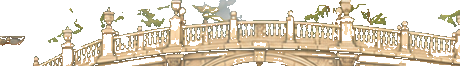
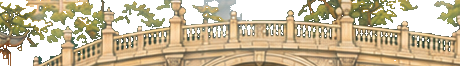
fix(scene): put the walker's feet on the deck course, not the rail crown
Walking the bridge in all three times of day showed her boots poking out below
the balustrade. The footline had the crown at y=400 — that is the TOP of the
railing, so a 96px figure standing there hung 30px below the overlay's bottom
edge (434).

- Deck footline now sits on the stone course at y=431, just inside the parapet
  so the boots are fully occluded. Verified by waiting for heroY to settle at
  431 rather than screenshotting mid-walk (an earlier capture caught her still
  travelling and I misread the steps at x=1700 as a rendering bug).
- Rebuilt the dusk/night overlays with the day cut's solid deck footprint as a
  shape template, so all three times occlude the same area (their own pixel
  masks had 44%% holes in the bottom band vs 24%% by day).
- Added a window.__lijiangEngine QA probe exposing hero y, visibility and world
  child order, so layer-order questions can be answered with data instead of
  squinting at 4x crops.
- tests/walkway.test.mjs now asserts feet rest on the deck COURSE near the
  parapet's bottom edge; the previous assertion accepted the crown and so
  passed while the bug was live.

Verification: typecheck, 59 unit tests, 44/44 browser checks, build clean.

diff --git a/src/content/walkway.ts b/src/content/walkway.ts
@@ -53,11 +53,13 @@ export const WALKWAY: readonly FootlinePoint[] = [
   // course the balustrade stands on) runs y~425 at the left base, crowns at
   // y~400 near x=1340 and returns to y~425 by x=1450. The arch springing and
   // the piers below are NOT ground — walking there put the figure in the river.
-  { x: 1240, y: 427, review: 'pending', foreground: true },
-  { x: 1290, y: 409, review: 'pending', foreground: true },
-  { x: 1340, y: 400, review: 'pending', foreground: true },
-  { x: 1390, y: 409, review: 'pending', foreground: true },
-  { x: 1450, y: 427, review: 'pending', foreground: true },
+  // Feet rest on the deck COURSE (~y 431), not on the rail crown (~400): standing
+  // on the crown left the boots poking out below the balustrade.
+  { x: 1240, y: 431, review: 'pending', foreground: true },
+  { x: 1290, y: 431, review: 'pending', foreground: true },
+  { x: 1340, y: 431, review: 'pending', foreground: true },
+  { x: 1390, y: 431, review: 'pending', foreground: true },
+  { x: 1450, y: 431, review: 'pending', foreground: true },
   // Right landing: the deck keeps its y~428 course out to x~1600, then the
   // painted steps drop to the bank. Anything below y~430 here is the pier /
   // open water, which is where an earlier guess put the walker.

diff --git a/src/engine/ScrollEngine.ts b/src/engine/ScrollEngine.ts
@@ -267,6 +267,7 @@ export class ScrollEngine {
     sprite.position.set(YANG_BRIDGE_PARAPET.x, YANG_BRIDGE_PARAPET.y);
     sprite.visible = this.walkerVisible;
     this.foreground = sprite;
+    // Always above the walker, regardless of which finished loading first.
     this.world.addChild(sprite);
   }
 
@@ -783,6 +784,18 @@ export class ScrollEngine {
   }
 
   /** Exposed for QA/tests: the segment the walker is standing on. */
+  /** Diagnostics for QA scripts; not used by the UI. */
+  describeLayers(): Record<string, unknown> {
+    return {
+      heroY: this.hero ? Math.round(this.hero.y) : null,
+      heroVisible: this.hero?.visible ?? null,
+      foregroundVisible: this.foreground?.visible ?? null,
+      heroIndex: this.hero ? this.world.getChildIndex(this.hero) : null,
+      foregroundIndex: this.foreground ? this.world.getChildIndex(this.foreground) : null,
+      walkerVisible: this.walkerVisible,
+    };
+  }
+
   footlineInfo(): { review: string; foreground: boolean } {
     return footlineReviewAt(this.heroX);
   }

diff --git a/src/app/ScrollStage.tsx b/src/app/ScrollStage.tsx
@@ -66,6 +66,9 @@ const ScrollStage = forwardRef<StageHandle, StageProps>(function ScrollStage(pro
       onLoadStatus: (status) => latest.current.onLoadStatus?.(status),
     });
     engineRef.current = engine;
+    // QA hook: lets the browser suite assert real layer order instead of
+    // eyeballing pixels. Only populated in this stage, never used by the app.
+    (window as unknown as { __lijiangEngine?: unknown }).__lijiangEngine = engine;
     void engine.init().then(() => {
       if (engineRef.current !== engine) return;
       engine.setMode(latest.current.mode);
